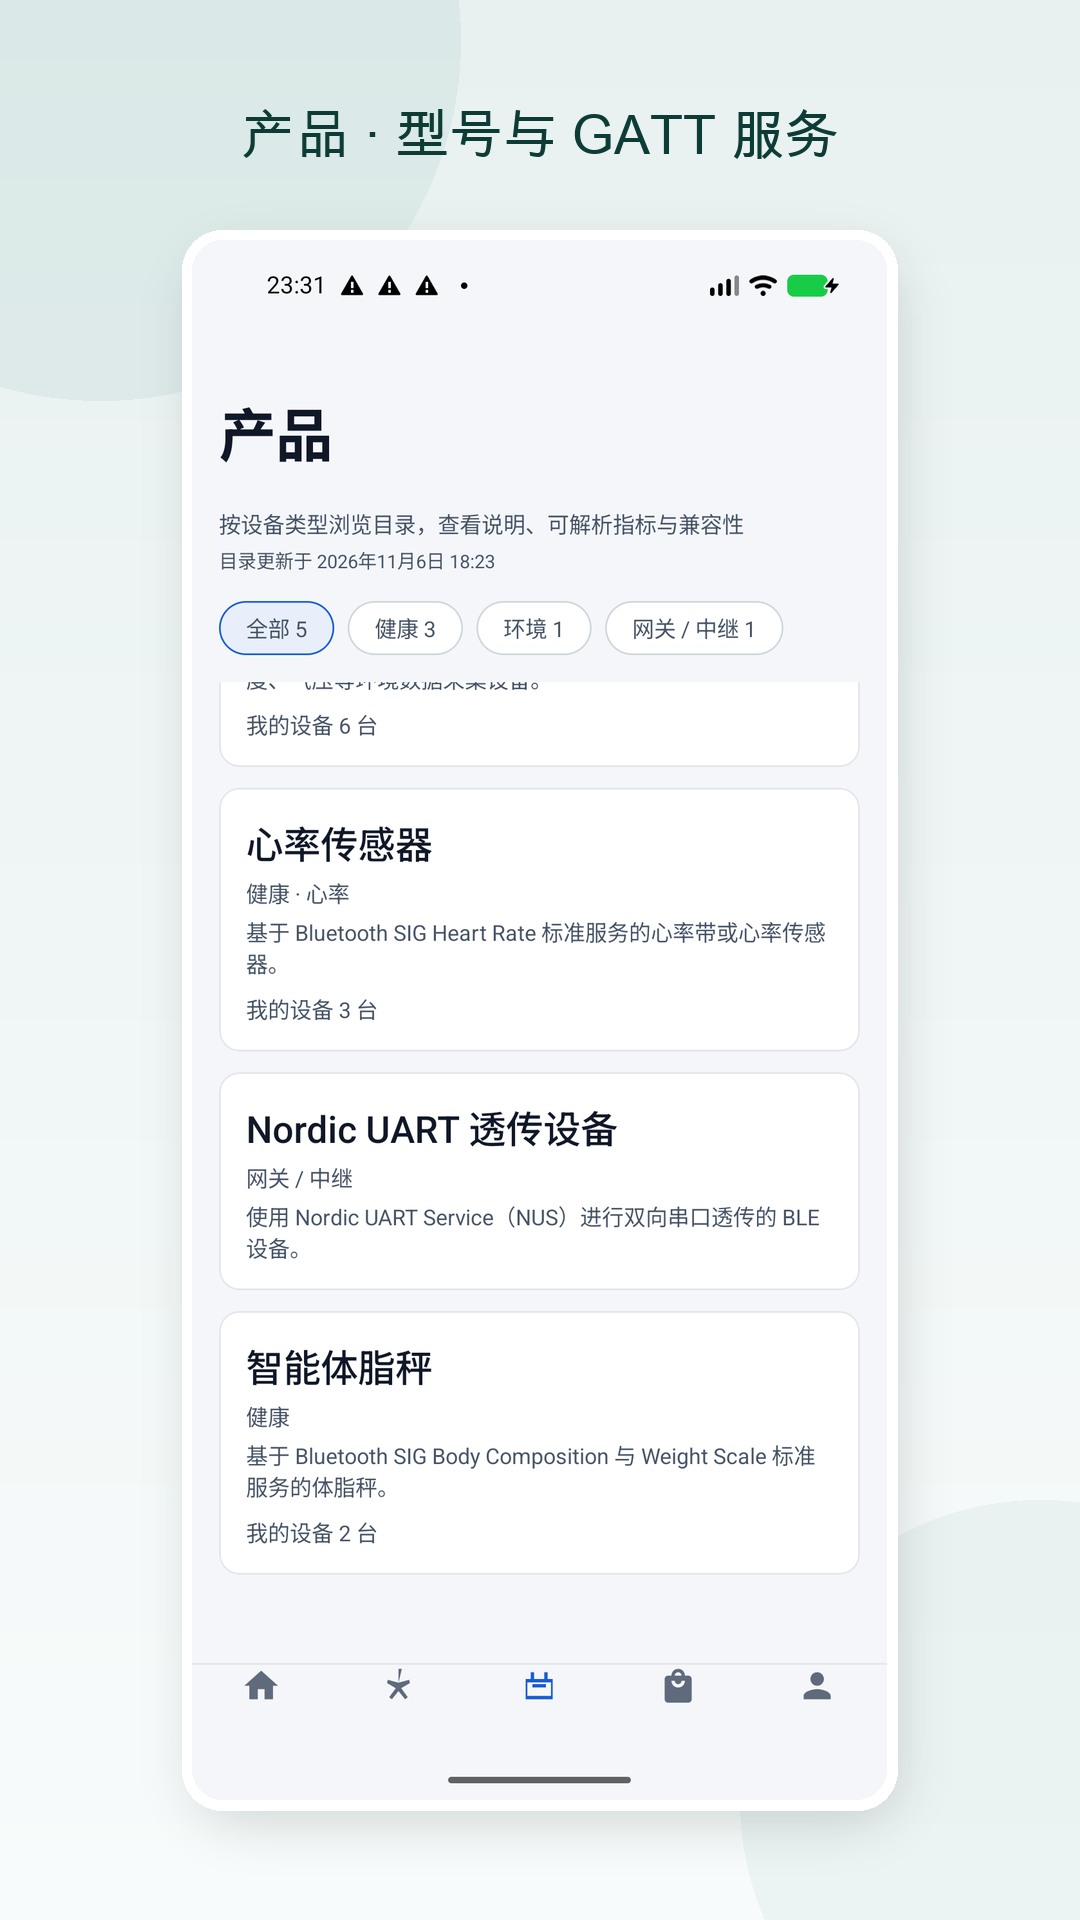
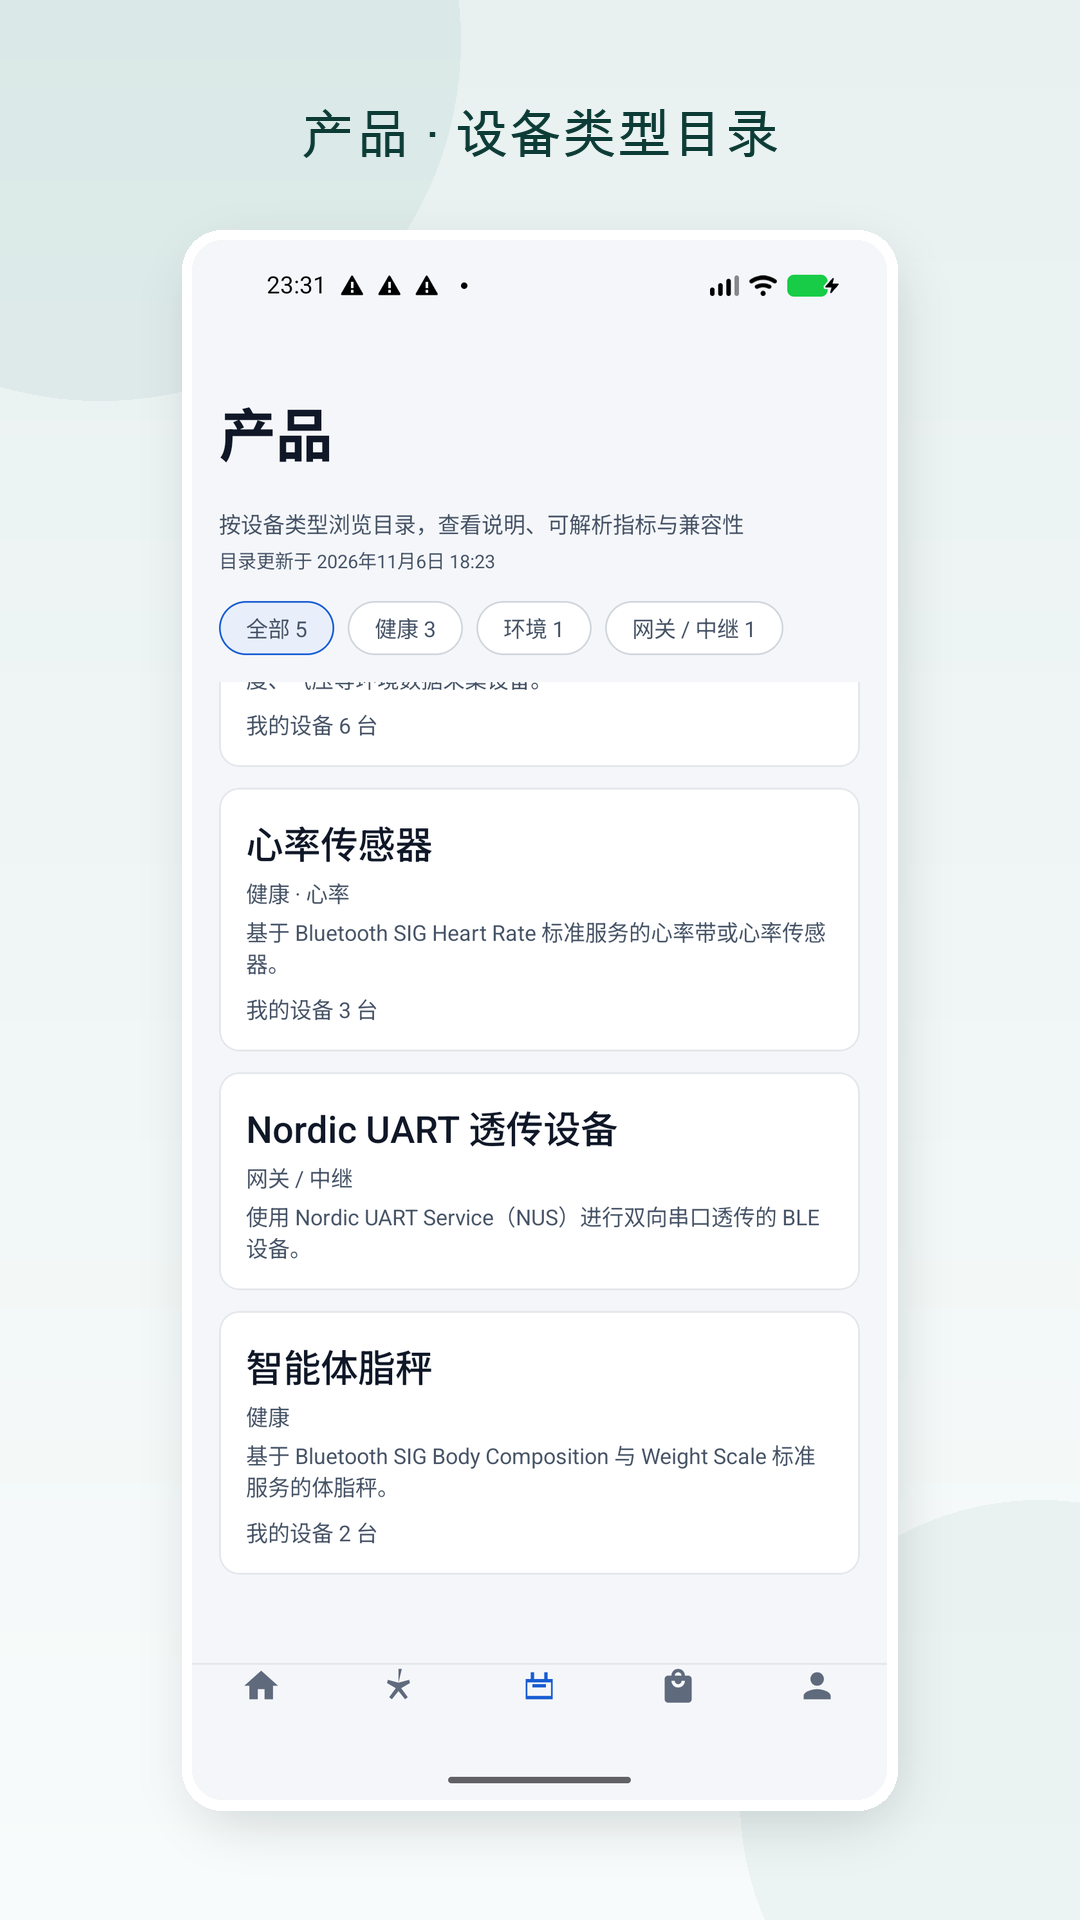
fix(store): 修正商店截图标题与成员文案并补 Feature Graphic
标题只描述画面真实可见元素（去掉设备卡片/阈值告警/GATT 服务/房间行），
成员角色改为「普通成员」修复「成员 2 · 成员」重复，
新增 1024×500 Feature Graphic 并递增版本到 0.31.0。

Changed region(s): [[0.275, 0.0625, 0.7639, 0.0938], [0.2139, 0.0625, 0.2444, 0.0938]]

diff --git a/scripts/make-store-screenshots.py b/scripts/make-store-screenshots.py
@@ -21,13 +21,15 @@ OUT = SRC / "play"
 W, H = 1080, 1920
 CAPTION_FONT = "/System/Library/Fonts/Supplemental/Arial Unicode.ttf"
 
-# (源截图, 输出文件名, 文案)。文案只对应截图中实际可见的界面。
+# (源截图, 输出文件名, 文案)。文案只写该截图里实际可见的元素：
+# home 只有今日概览与设备状态（无设备卡片）；device_detail 只有曲线与汇总（无阈值告警）；
+# products 只有设备类型目录（无 GATT 服务表）；profile_household 只有家庭与成员行（无房间行）。
 SHOTS = [
-    ("home.png", "01-home.png", "首页 · 设备卡片与实时读数"),
-    ("device_detail.png", "02-device-detail.png", "设备详情 · 历史曲线与阈值告警"),
+    ("home.png", "01-home.png", "首页 · 今日概览与设备状态"),
+    ("device_detail.png", "02-device-detail.png", "设备详情 · 历史曲线与 24 小时汇总"),
     ("scenes.png", "03-scenes.png", "智能 · 本机场景一键执行"),
-    ("products.png", "04-products.png", "产品 · 型号与 GATT 服务"),
-    ("profile_household.png", "05-household.png", "我的 · 家庭与房间"),
+    ("products.png", "04-products.png", "产品 · 设备类型目录"),
+    ("profile_household.png", "05-household.png", "我的 · 家庭与成员"),
     ("profile_scan_logs.png", "06-scan-logs.png", "我的 · 扫描日志"),
 ]
 
@@ -102,6 +104,67 @@ def compose(src: Path, caption: str) -> Image.Image:
     return canvas.convert("RGB")
 
 
+def fit_font(text: str, max_width: int, start: int) -> ImageFont.FreeTypeFont:
+    size = start
+    while size > 12:
+        candidate = font(size)
+        bbox = ImageDraw.Draw(Image.new("RGB", (1, 1))).textbbox((0, 0), text, font=candidate)
+        if bbox[2] - bbox[0] <= max_width:
+            return candidate
+        size -= 1
+    return font(size)
+
+
+def make_feature_graphic() -> Image.Image:
+    """Google Play Feature Graphic：1024×500，只含应用名、真实卖点与设计令牌配色。"""
+    width, height = 1024, 500
+    # 设计令牌（app/src/main/res/values/colors.xml）
+    surface = (255, 255, 255)
+    chart_band = (232, 239, 251)
+    primary = (23, 92, 211)
+    line_2 = (122, 90, 248)
+    text_primary = (16, 24, 40)
+    text_secondary = (71, 84, 103)
+    text_tertiary = (95, 106, 125)
+
+    canvas = Image.new("RGB", (width, height), surface)
+    draw = ImageDraw.Draw(canvas)
+    for y in range(height):
+        ratio = y / (height - 1)
+        draw.line(
+            [(0, y), (width, y)],
+            fill=tuple(round(a + (b - a) * ratio) for a, b in zip(surface, chart_band)),
+        )
+
+    # 右侧：抽象信号柱 + 弧线（不使用任何界面截图，避免虚构 UI）
+    layer = Image.new("RGBA", (width, height), (0, 0, 0, 0))
+    d = ImageDraw.Draw(layer)
+    for radius in (150, 196, 242):
+        d.arc([724 - radius, 352 - radius, 724 + radius, 352 + radius], 270, 360,
+              fill=primary + (46,), width=3)
+    baseline = 352
+    for index, bar_h in enumerate((66, 98, 130, 162, 196)):
+        x = 724 + index * 58
+        color = line_2 if index == 4 else primary
+        d.rounded_rectangle([x, baseline - bar_h, x + 34, baseline], 12, fill=color + (255,))
+    canvas = Image.alpha_composite(canvas.convert("RGBA"), layer).convert("RGB")
+    draw = ImageDraw.Draw(canvas)
+
+    # 左侧：标签、应用名、真实卖点
+    draw.rounded_rectangle([72, 74, 320, 124], 24, fill=chart_band)
+    draw.text((92, 84), "BLE · 本机优先", font=font(23), fill=primary)
+    draw.text((72, 158), "BLE 设备数据面板",
+              font=fit_font("BLE 设备数据面板", 640, 60), fill=text_primary)
+    draw.text((72, 252), "扫描连接 BLE 设备",
+              font=fit_font("扫描连接 BLE 设备", 640, 33), fill=text_secondary)
+    draw.text((72, 298), "实时读数与本地告警",
+              font=fit_font("实时读数与本地告警", 640, 33), fill=text_secondary)
+    draw.line([(72, 380), (676, 380)], fill=(208, 213, 221), width=2)
+    draw.text((72, 402), "无需账号密码 · 数据保存在本机",
+              font=fit_font("无需账号密码 · 数据保存在本机", 640, 24), fill=text_tertiary)
+    return canvas
+
+
 def main() -> None:
     OUT.mkdir(parents=True, exist_ok=True)
     for src_name, out_name, caption in SHOTS:
@@ -112,7 +175,11 @@ def main() -> None:
         target = OUT / out_name
         image.save(target, "PNG", optimize=True)
         print(f"{target.relative_to(ROOT)} {image.width}x{image.height}")
-    print(f"完成：{len(SHOTS)} 张 {W}x{H} 商店截图")
+    graphic = make_feature_graphic()
+    graphic_target = OUT / "feature-graphic.png"
+    graphic.save(graphic_target, "PNG", optimize=True)
+    print(f"{graphic_target.relative_to(ROOT)} {graphic.width}x{graphic.height}")
+    print(f"完成：{len(SHOTS)} 张 {W}x{H} 商店截图 + 1 张 1024x500 Feature Graphic")
 
 
 if __name__ == "__main__":

diff --git a/docs/acceptance.md b/docs/acceptance.md
@@ -1,9 +1,9 @@
-# 真机验收清单（v0.30.0）
+# 真机验收清单（v0.31.0）
 
 本清单用于「执行人不在开发现场」时也能照着做完验收。每项都写明**操作步骤、预期现象、失败判定**。
 所有结果请记录到文末的「验收记录表」；未实际执行的项不要填 PASS。
 
-- 适用版本：`versionName = 0.30.0`（`versionCode = 39`）
+- 适用版本：`versionName = 0.31.0`（`versionCode = 40`）
 - 应用包名：`com.platojobs.pkotlinapp`
 - 主界面：`com.platojobs.pkotlinapp.ui.MainActivity`
 - 设备详情：`com.platojobs.pkotlinapp.ui.detail.DeviceDetailActivity`
@@ -55,7 +55,7 @@ adb install -r app/build/outputs/apk/debug/app-debug.apk
 adb shell dumpsys package com.platojobs.pkotlinapp | grep -E "versionName|versionCode"
 ```
 
-预期：`versionName=0.28.1`、`versionCode=37`。
+预期：`versionName=0.31.0`、`versionCode=40`。
 
 ---
 
